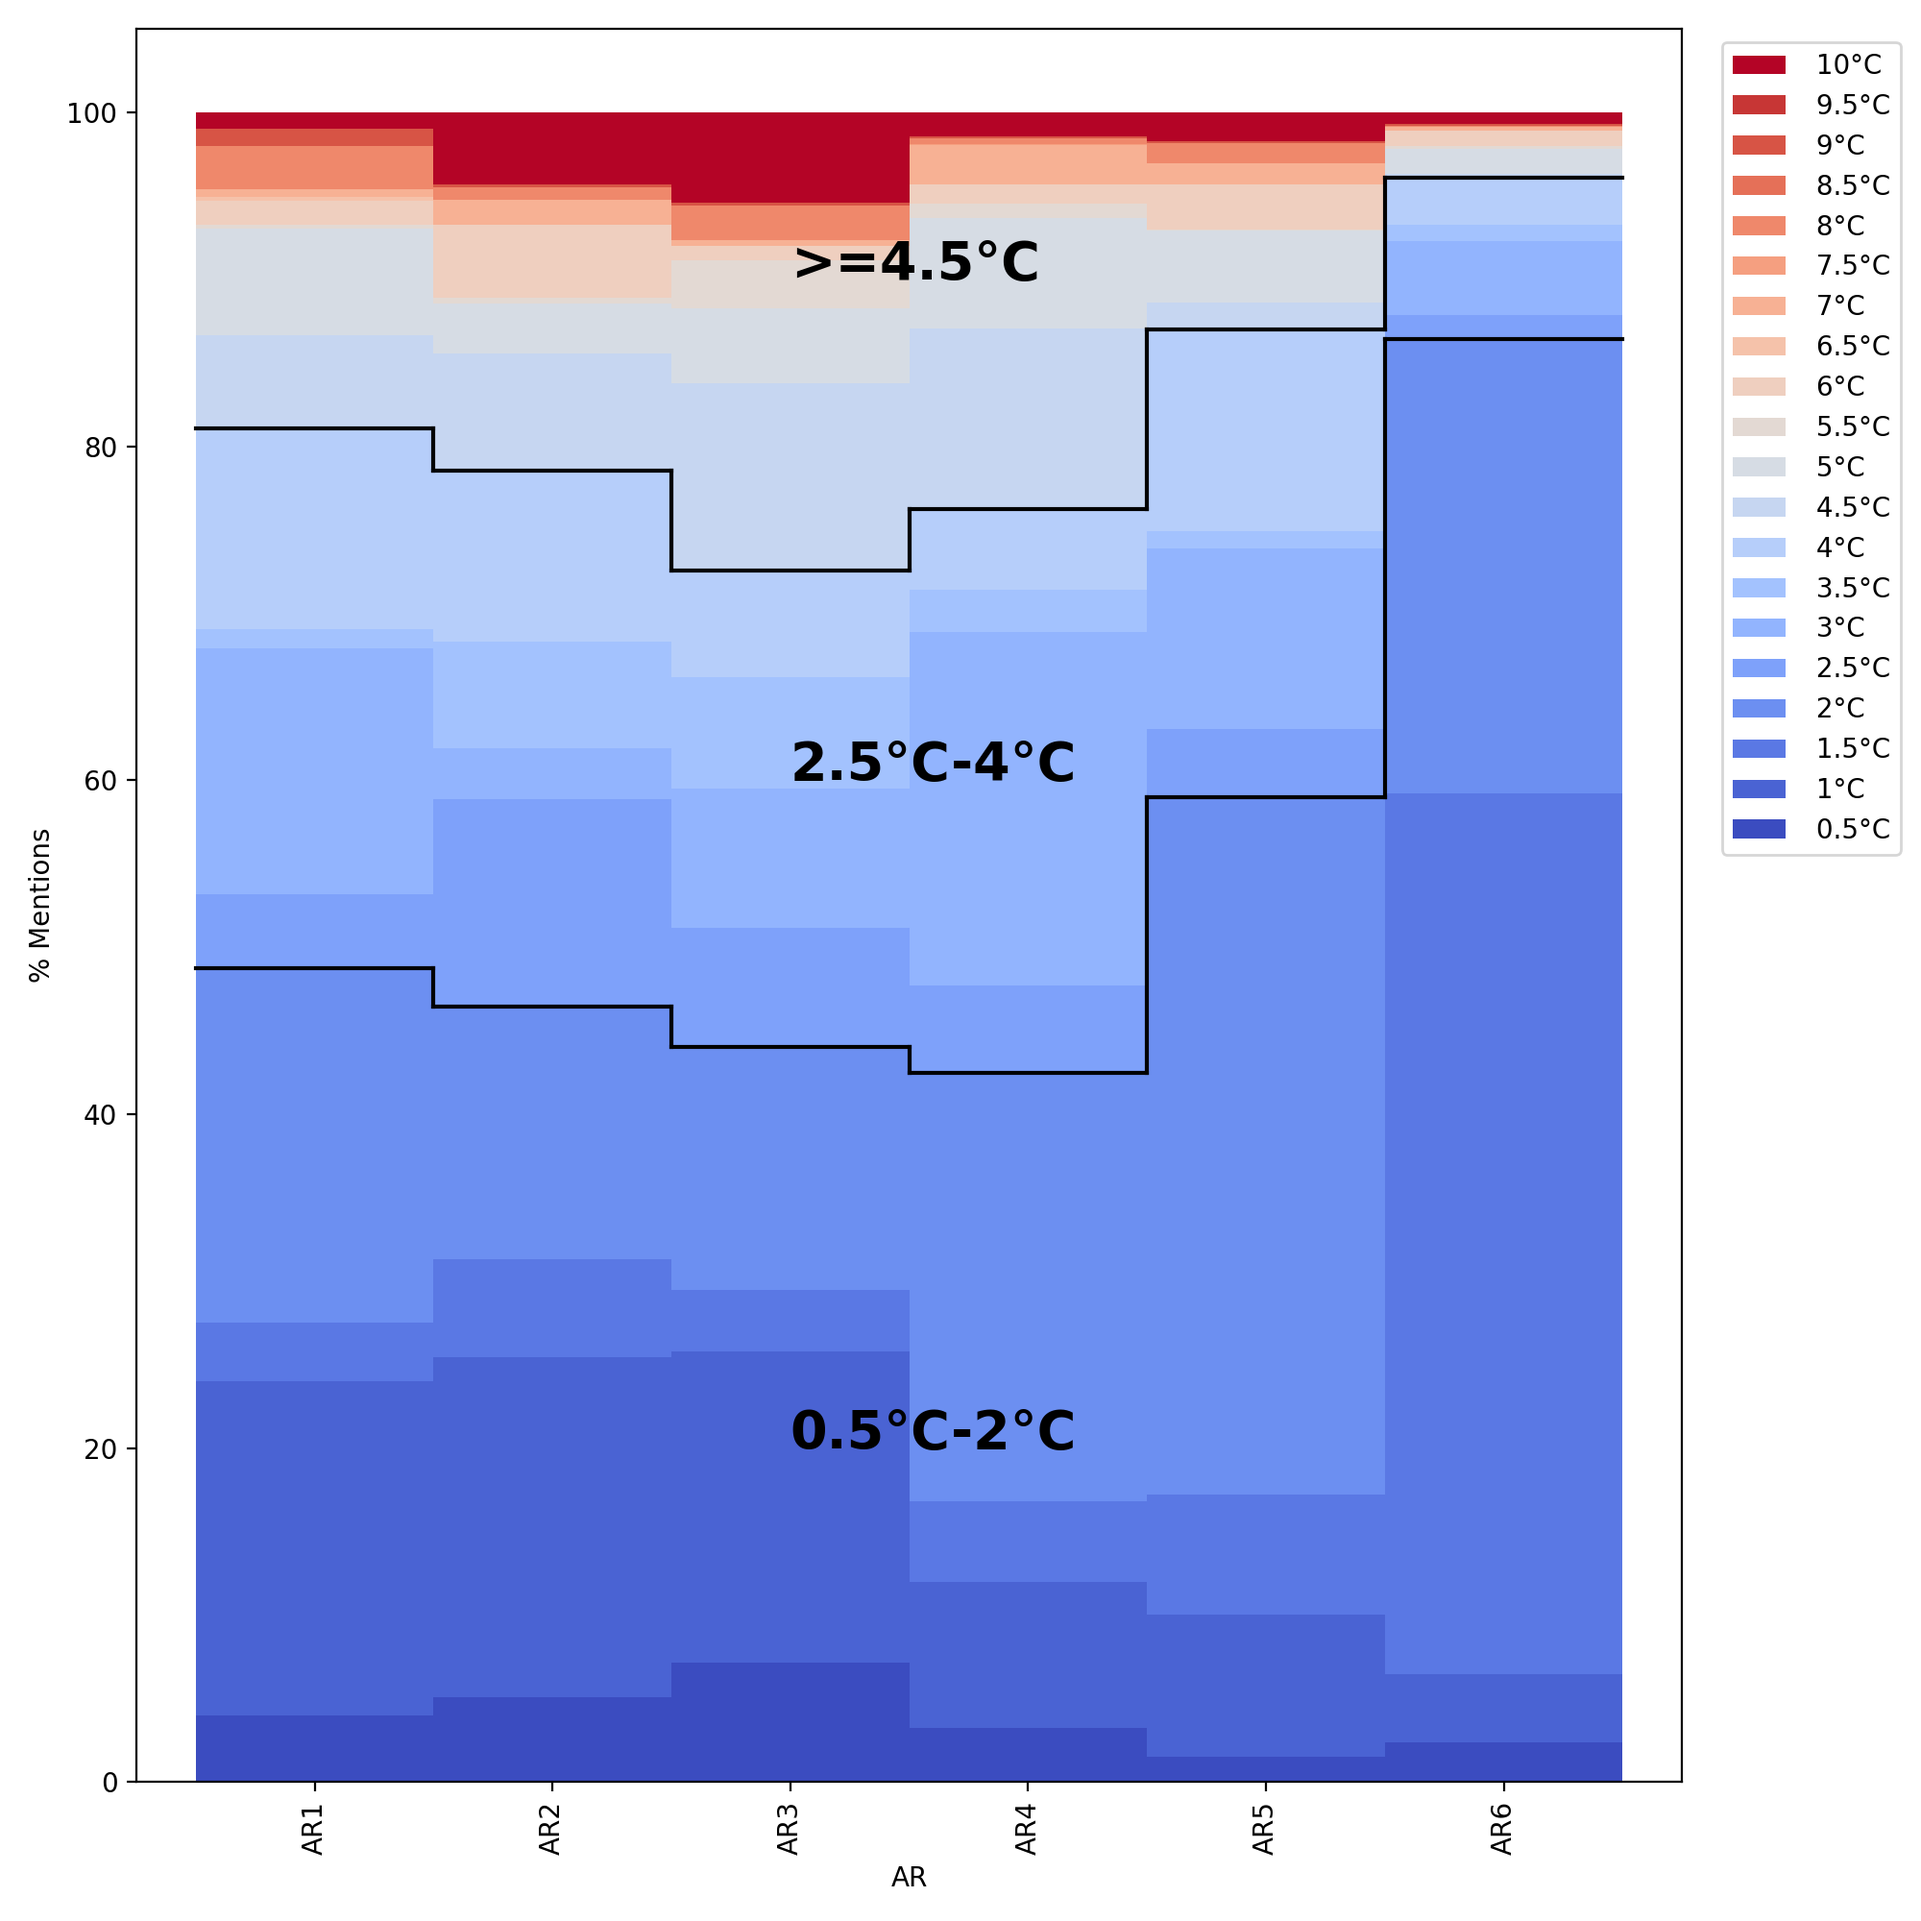
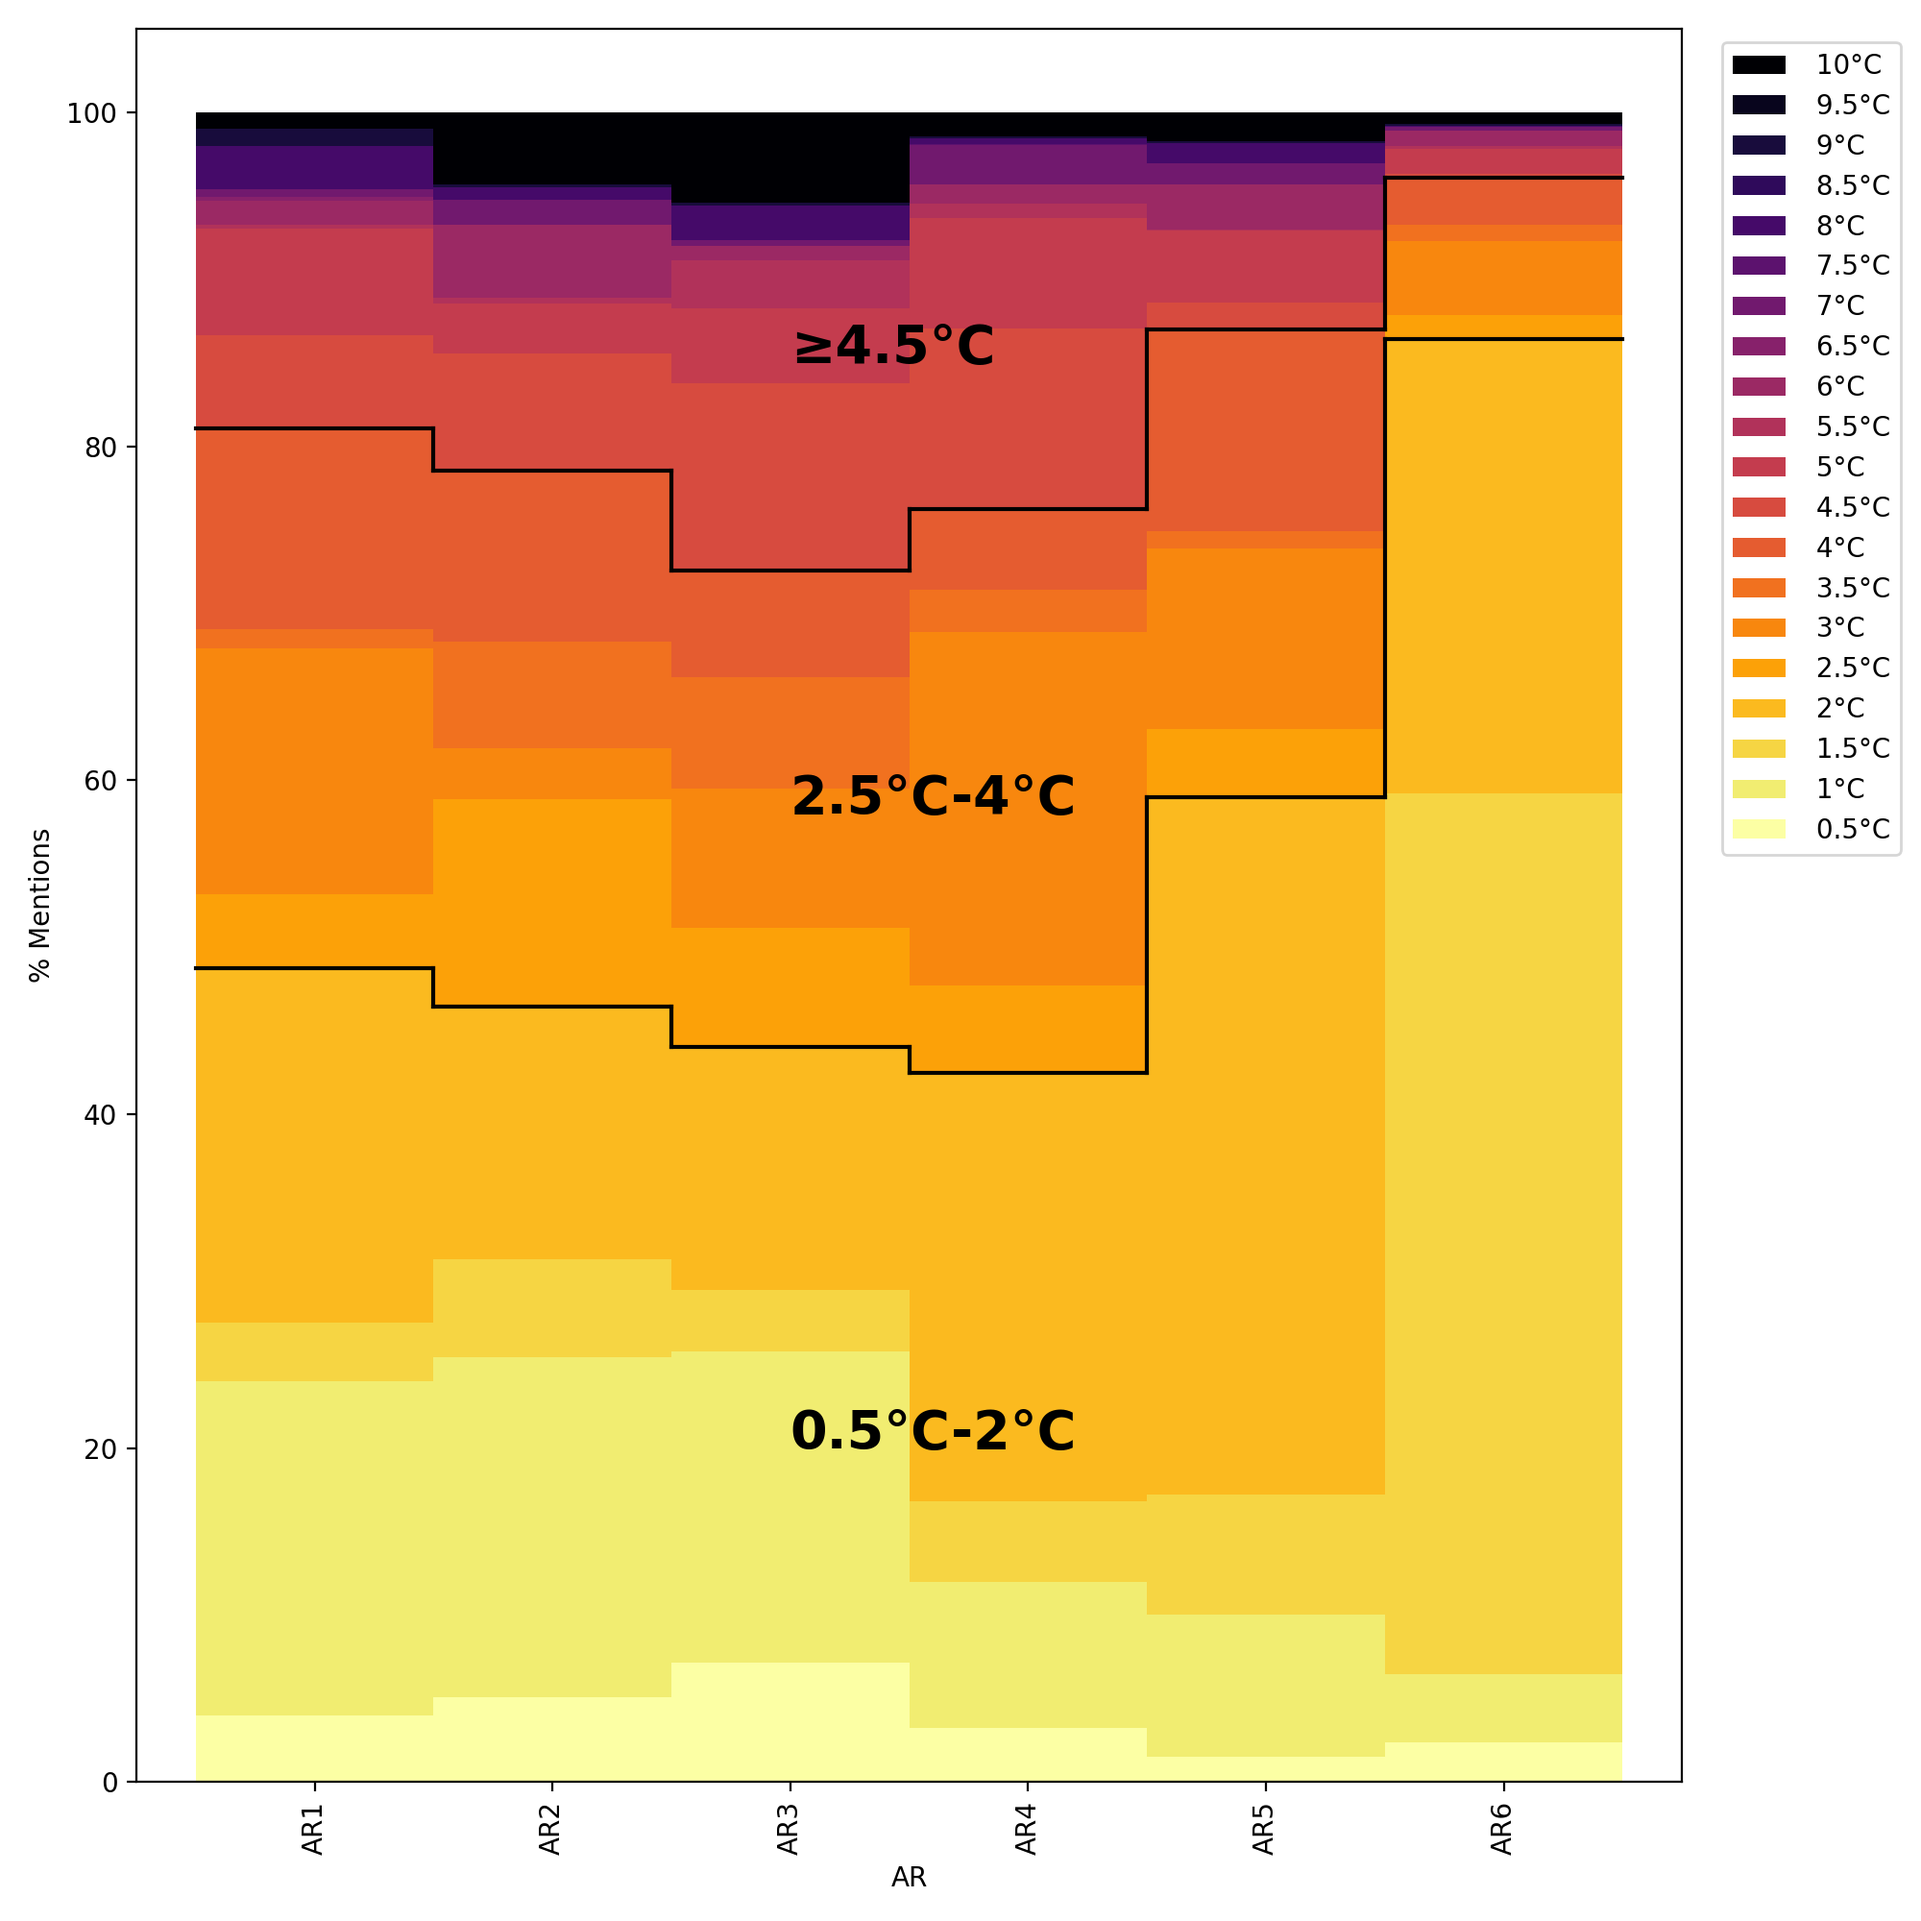
Updated minor things like cmaps

diff --git a/figure_1.py b/figure_1.py
@@ -12,7 +12,7 @@ import numpy as np
 import read_prepare_data as rp_da
 
 
-def plot_all_temp_by_ar(ipcc_counts, meta):
+def plot_all_temp_by_ar(ipcc_counts, meta, cmap):
     """Plots all temperatures for all assessment reports  """
     ipcc_counts = rp_da.scale_counts(ipcc_counts.copy())
     # group for second layer of plot
@@ -23,14 +23,14 @@ def plot_all_temp_by_ar(ipcc_counts, meta):
     counts_meta = rp_da.merge_counts_meta(ipcc_counts_grouped, counts_meta)
     temps = rp_da.create_temp_keys()
     # Plot the seperate temps
-    ax = counts_meta.groupby("AR")[temps].mean().plot(cmap="coolwarm", kind="bar", width=1, stacked=True)    
+    ax = counts_meta.groupby("AR")[temps].mean().plot(cmap=cmap, kind="bar", width=1, stacked=True)    
     handles, labels = ax.get_legend_handles_labels()
     ax.legend(handles[::-1], labels[::-1],loc='upper right', bbox_to_anchor=(1.15, 1))
     # Plot the temp groups
     temp_group_means_by_ar = counts_meta.groupby("AR")[temp_groups].mean()
     # prep df for stacking
     temp_group_means_by_ar["2.5°C-4°C"] = temp_group_means_by_ar["2.5°C-4°C"] + temp_group_means_by_ar["0.5°C-2°C"]
-    del(temp_group_means_by_ar[">=4.5°C"])
+    del(temp_group_means_by_ar["≥4.5°C"])
     # plot  group lines
     for temp_group in temp_groups[:-1]:
         last_AR = 0
@@ -43,8 +43,8 @@ def plot_all_temp_by_ar(ipcc_counts, meta):
                 last_AR = AR
             else:
                 last_AR = AR
-
-    for temp_group, y_pos in zip(temp_groups, [20,60,90]):
+                
+    for temp_group, y_pos in zip(temp_groups, [20,58,85]):
         ax.text(2, y_pos,temp_group, fontsize=20, fontweight="bold")
         
     # Make pretty
@@ -55,7 +55,7 @@ def plot_all_temp_by_ar(ipcc_counts, meta):
     plt.savefig("Figures"+ os.sep +"AR_all_temps_and_grouped.png", dpi=200)
     plt.close()
     
-def plot_all_temp_by_wg(ipcc_counts, meta):
+def plot_all_temp_by_wg(ipcc_counts, meta, cmap):
     """Plots all temperatures for all assessment reports  """
     ipcc_counts = rp_da.scale_counts(ipcc_counts.copy())
     # group for second layer of plot
@@ -74,7 +74,7 @@ def plot_all_temp_by_wg(ipcc_counts, meta):
     wgs_continous_temp.columns = ["WG I", "WG II", "WG III"]
     wgs_continous_temp = wgs_continous_temp.transpose()
     # Plot the working groups
-    ax = wgs_continous_temp.plot(cmap="coolwarm", kind="bar", width=0.9, stacked=True)
+    ax = wgs_continous_temp.plot(cmap=cmap, kind="bar", width=0.9, stacked=True)
     # Handle the legend
     handles, labels = ax.get_legend_handles_labels()
     ax.legend(handles[::-1], labels[::-1],loc='upper right', bbox_to_anchor=(1.15, 1))
@@ -84,7 +84,7 @@ def plot_all_temp_by_wg(ipcc_counts, meta):
     wgs_group_temp = wgs_group_temp.transpose()
     # prep df for stacking
     wgs_group_temp["2.5°C-4°C"] = wgs_group_temp["2.5°C-4°C"] + wgs_group_temp["0.5°C-2°C"]
-    del(wgs_group_temp[">=4.5°C"])
+    del(wgs_group_temp["≥4.5°C"])
     # plot  group lines
     for temp_group in temp_groups[:-1]:
         for i, WG in enumerate(wgs_group_temp[temp_group]):
@@ -92,7 +92,7 @@ def plot_all_temp_by_wg(ipcc_counts, meta):
             ax.plot([i-0.45,i+1-0.55], [WG,WG], color="black")
 
 
-    for temp_group, y_pos in zip(temp_groups, [20,60,90]):
+    for temp_group, y_pos in zip(temp_groups, [20,60,80]):
         ax.text(0.7, y_pos,temp_group, fontsize=20, fontweight="bold")
         
     # Make pretty
@@ -103,7 +103,7 @@ def plot_all_temp_by_wg(ipcc_counts, meta):
     plt.savefig("Figures"+ os.sep +"WG_all_temps_and_grouped.png", dpi=200)
     plt.close()
     
-def plot_all_temp_by_report_type(ipcc_counts, meta):
+def plot_all_temp_by_report_type(ipcc_counts, meta, cmap):
     """Plots all temperatures for all assessment reports  """
     ipcc_counts = rp_da.scale_counts(ipcc_counts.copy())
     # group for second layer of plot
@@ -114,14 +114,14 @@ def plot_all_temp_by_report_type(ipcc_counts, meta):
     counts_meta = rp_da.merge_counts_meta(ipcc_counts_grouped, counts_meta)
     temps = rp_da.create_temp_keys()
     # Plot the seperate temps
-    ax = counts_meta.groupby("Kind of Report")[temps].mean().plot(cmap="coolwarm", kind="bar", width=0.9, stacked=True)    
+    ax = counts_meta.groupby("Kind of Report")[temps].mean().plot(cmap=cmap, kind="bar", width=0.9, stacked=True)    
     handles, labels = ax.get_legend_handles_labels()
     ax.legend(handles[::-1], labels[::-1],loc='upper right', bbox_to_anchor=(1.15, 1))
     # Plot the temp groups
     temp_group_means_by_report = counts_meta.groupby("Kind of Report")[temp_groups].mean()
     # prep df for stacking
     temp_group_means_by_report["2.5°C-4°C"] = temp_group_means_by_report["2.5°C-4°C"] + temp_group_means_by_report["0.5°C-2°C"]
-    del(temp_group_means_by_report[">=4.5°C"])
+    del(temp_group_means_by_report["≥4.5°C"])
     # plot  group lines
     for temp_group in temp_groups[:-1]:
         for i, AR in enumerate(temp_group_means_by_report[temp_group]):
@@ -130,7 +130,7 @@ def plot_all_temp_by_report_type(ipcc_counts, meta):
             # Plot vertical lines
 
 
-    for temp_group, y_pos in zip(temp_groups, [20,60,90]):
+    for temp_group, y_pos in zip(temp_groups, [20,60,80]):
         ax.text(1.6, y_pos,temp_group, fontsize=20, fontweight="bold")
         
     # Make pretty
@@ -146,6 +146,7 @@ if __name__ == "__main__":
     # Define basic stuff
     # exclude reports with only few temperature mentions, as they distort the picture
     min_temp_found = 10
+    cmap = "inferno_r"
     
     # get the data    
     ipcc_counts = rp_da.read_ipcc_counts()
@@ -158,10 +159,10 @@ if __name__ == "__main__":
     ipcc_counts = ipcc_counts[ipcc_counts.sum(axis=1)>min_temp_found]
     
     # Plot    
-    plot_all_temp_by_ar(ipcc_counts, meta)
-    plot_all_temp_by_wg(ipcc_counts, meta)
+    plot_all_temp_by_ar(ipcc_counts, meta, cmap)
+    plot_all_temp_by_wg(ipcc_counts, meta, cmap)
 
-    plot_all_temp_by_report_type(ipcc_counts, meta)
+    plot_all_temp_by_report_type(ipcc_counts, meta, cmap)
     # TODO
     # exclude reports with fewer than 10 entries?
     

diff --git a/read_prepare_data.py b/read_prepare_data.py
@@ -38,7 +38,7 @@ def read_meta():
 def group_temps(ipcc_counts):
     ipcc_counts["0.5°C-2°C"] = ipcc_counts[" 0.5°C"] + ipcc_counts[" 1°C"] + ipcc_counts[" 1.5°C"] +ipcc_counts[" 2°C"] 
     ipcc_counts["2.5°C-4°C"] = ipcc_counts[" 2.5°C"] + ipcc_counts[" 3°C"] + ipcc_counts[" 3.5°C"] +ipcc_counts[" 4°C"] 
-    ipcc_counts[">=4.5°C"] = ipcc_counts[" 4.5°C"] + ipcc_counts[" 5°C"] + ipcc_counts[" 5.5°C"] +ipcc_counts[" 6°C"] +ipcc_counts[" 6.5°C"] + ipcc_counts[" 7°C"] + ipcc_counts[" 7.5°C"] +ipcc_counts[" 8°C"] + ipcc_counts[" 8.5°C"] + ipcc_counts[" 9°C"] + ipcc_counts[" 9.5°C"] +ipcc_counts[" 10°C"] 
+    ipcc_counts["≥4.5°C"] = ipcc_counts[" 4.5°C"] + ipcc_counts[" 5°C"] + ipcc_counts[" 5.5°C"] +ipcc_counts[" 6°C"] +ipcc_counts[" 6.5°C"] + ipcc_counts[" 7°C"] + ipcc_counts[" 7.5°C"] +ipcc_counts[" 8°C"] + ipcc_counts[" 8.5°C"] + ipcc_counts[" 9°C"] + ipcc_counts[" 9.5°C"] +ipcc_counts[" 10°C"] 
     return ipcc_counts.iloc[:,20:]
     
 
